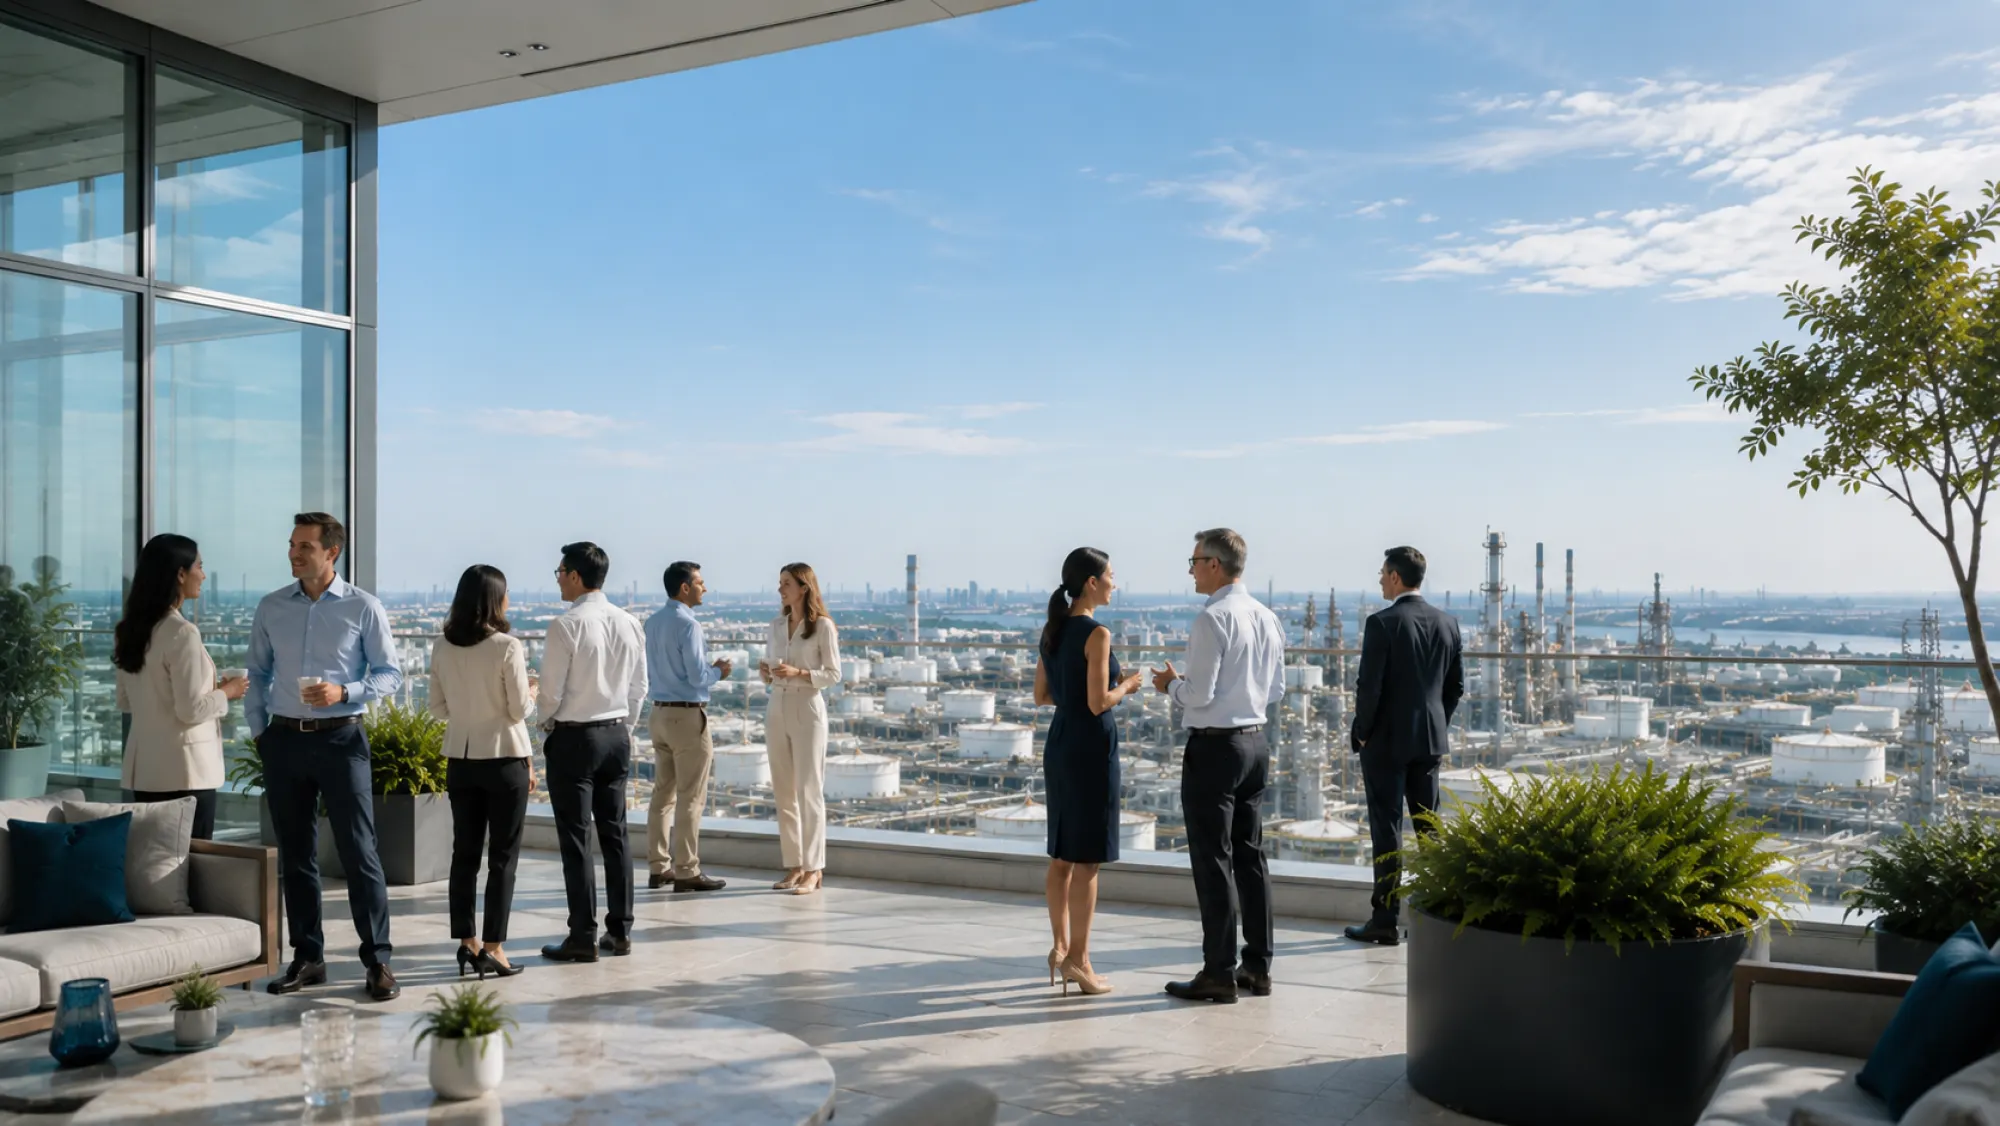
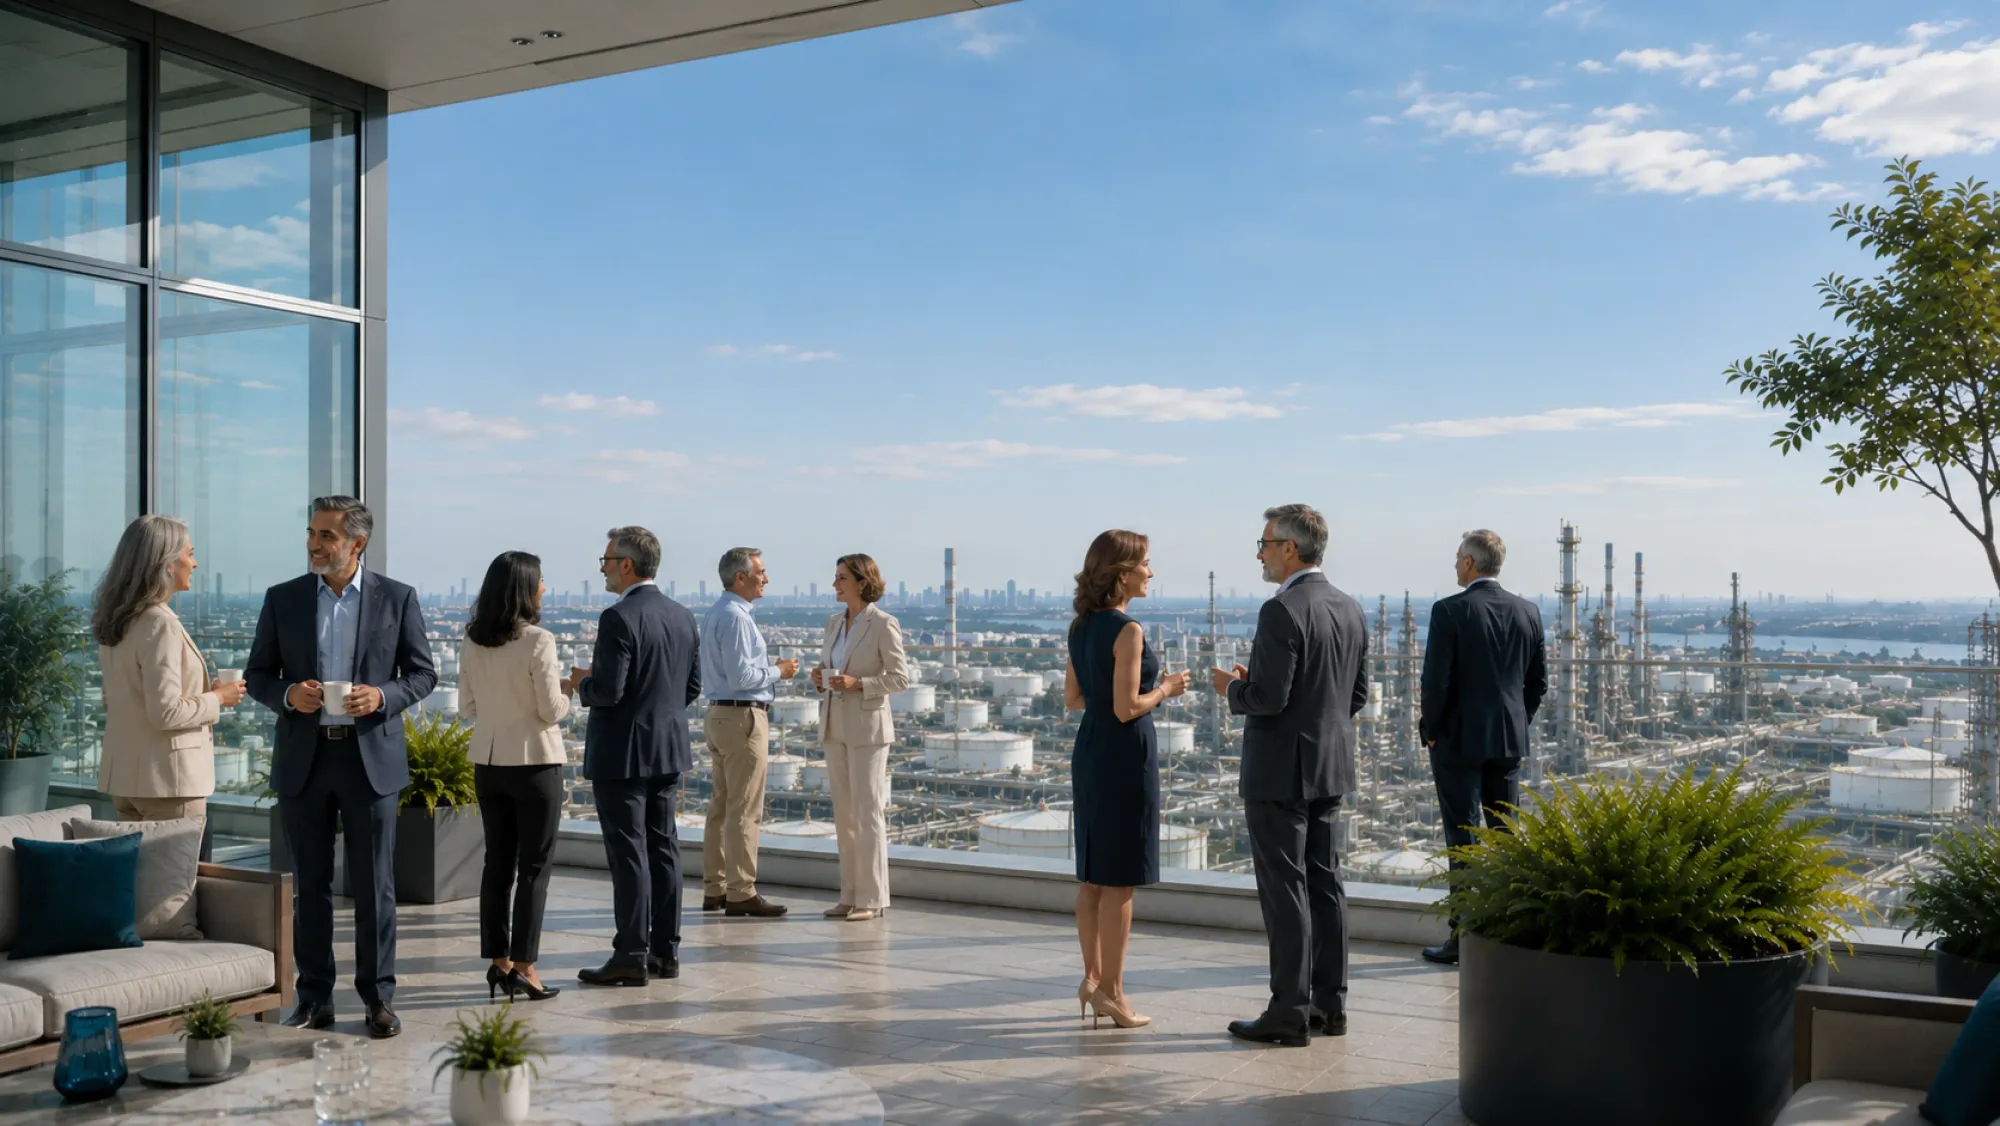
Hold advisory roster, swap in executive hero and community imagery
- Hide the portrait marquee and Faces section behind a holding block; both
  showed rotating stock photos against 15 real, named executives. Restore
  via SHOW_ROSTER in AdvisoryMarquee.tsx once real headshots land.
- Drop the geo line and "See the full council" button from the section.
- Replace hero and community images with client-supplied executive
  boardroom / terrace shots (feedback #5), resized and re-encoded.
- Hani Elshahawi: "Affiliation to be confirmed" -> "Energy Technology
  Leader" so no placeholder text is public (feedback #1).

diff --git a/components/sections/AdvisoryMarquee.tsx b/components/sections/AdvisoryMarquee.tsx
@@ -8,10 +8,15 @@ import styles from "./AdvisoryMarquee.module.css";
 
 /**
  * §2 ADVISORY COUNCIL — mapped onto Nixtio's mentor marquee.
- * Two rows of portrait cards drifting in opposite directions (pattern D).
- * The map-morph stage is intentionally simplified out (executive tone);
- * instead a "Founding Chapter: Houston → geographies" stat sits above.
+ *
+ * TEMPORARILY IN A HOLDING STATE. The portrait marquee is hidden because the
+ * member records currently point at rotating stock photos (mentor-1..9.jpg)
+ * across 15 real, named executives. Flip SHOW_ROSTER back to true once real
+ * headshots land (or once the initials-only treatment is confirmed) — the
+ * marquee markup below is preserved and needs no other change.
  */
+const SHOW_ROSTER = false;
+
 export function AdvisoryMarquee() {
   return (
     <section id="members" className={styles.section}>
@@ -26,7 +31,9 @@ export function AdvisoryMarquee() {
             stagger={0.09}
             className={styles.title}
           >
-            The founding members who lend their name to the institution.
+            {SHOW_ROSTER
+              ? "The founding members who lend their name to the institution."
+              : "Founding members, announced soon."}
           </RevealText>
         </div>
         <FadeUp as="p" className={`muted ${styles.sub}`} start="top 88%">
@@ -35,25 +42,33 @@ export function AdvisoryMarquee() {
         </FadeUp>
       </div>
 
-      <div className={styles.rows}>
-        <Marquee speed={38} direction={1} className={styles.row}>
-          {MEMBERS.map((m) => (
-            <PortraitCard key={m.id} member={m} />
-          ))}
-        </Marquee>
-      </div>
-
-      <div className={`wrap ${styles.footer}`}>
-        <FadeUp as="p" className={styles.geo} start="top 88%">
-          Founding Chapter: <strong>Houston</strong>. The replicable model for{" "}
-          <strong>Permian Basin, Calgary, Abu Dhabi, and Singapore</strong>.
-        </FadeUp>
-        <FadeUp>
-          <Button href="/members" variant="ghost" arrow>
-            See the full council
-          </Button>
-        </FadeUp>
-      </div>
+      {SHOW_ROSTER ? (
+        <>
+          <div className={styles.rows}>
+            <Marquee speed={38} direction={1} className={styles.row}>
+              {MEMBERS.map((m) => (
+                <PortraitCard key={m.id} member={m} />
+              ))}
+            </Marquee>
+          </div>
+          <div className={`wrap ${styles.footer}`}>
+            <FadeUp>
+              <Button href="/members" variant="ghost" arrow>
+                See the full council
+              </Button>
+            </FadeUp>
+          </div>
+        </>
+      ) : (
+        <div className="wrap">
+          <FadeUp className={styles.holding} start="top 88%">
+            <span className={styles.holdingTag}>Coming soon</span>
+            <p className={styles.holdingText}>
+              The founding Advisory Council will be published here shortly.
+            </p>
+          </FadeUp>
+        </div>
+      )}
     </section>
   );
 }

diff --git a/components/sections/AdvisoryMarquee.module.css b/components/sections/AdvisoryMarquee.module.css
@@ -40,6 +40,36 @@
   flex-direction: column;
 }
 
+/* holding state — shown while the roster is hidden (see SHOW_ROSTER) */
+.holding {
+  display: flex;
+  flex-direction: column;
+  align-items: center;
+  gap: 14px;
+  text-align: center;
+  padding: clamp(36px, 5vw, 60px) clamp(20px, 4vw, 40px);
+  background: var(--mist);
+  border: 1px dashed var(--line);
+  border-radius: 14px;
+}
+
+.holdingTag {
+  font-family: var(--font-mono), var(--font-sans);
+  font-size: 11.5px;
+  font-weight: 500;
+  letter-spacing: 0.14em;
+  text-transform: uppercase;
+  color: var(--cyan);
+}
+
+.holdingText {
+  font-family: var(--font-serif);
+  font-size: clamp(1.1rem, 1.9vw, 1.5rem);
+  line-height: 1.4;
+  color: var(--blue-deep);
+  max-width: 40ch;
+}
+
 .footer {
   display: flex;
   flex-wrap: wrap;

diff --git a/app/page.tsx b/app/page.tsx
@@ -7,7 +7,6 @@ import { IfYou } from "@/components/sections/IfYou";
 import { WhyHoustonBand } from "@/components/sections/WhyHoustonBand";
 import { PublishedWork } from "@/components/sections/PublishedWork";
 import { Together } from "@/components/sections/Together";
-import { Faces } from "@/components/sections/Faces";
 import { HowItWorks } from "@/components/sections/HowItWorks";
 import { Kissflow } from "@/components/sections/Kissflow";
 import { EOIForm } from "@/components/sections/EOIForm";
@@ -29,7 +28,10 @@ export default function HomePage() {
       <WhyHoustonBand />
       <PublishedWork />
       <Together />
-      <Faces />
+      {/* <Faces /> — hidden until real headshots land. Shows 4 named
+          executives against rotating stock photos, same reason the
+          AdvisoryMarquee roster is in its holding state. Restore alongside
+          SHOW_ROSTER in AdvisoryMarquee.tsx. */}
       <HowItWorks />
       <Kissflow />
       <EOIForm />